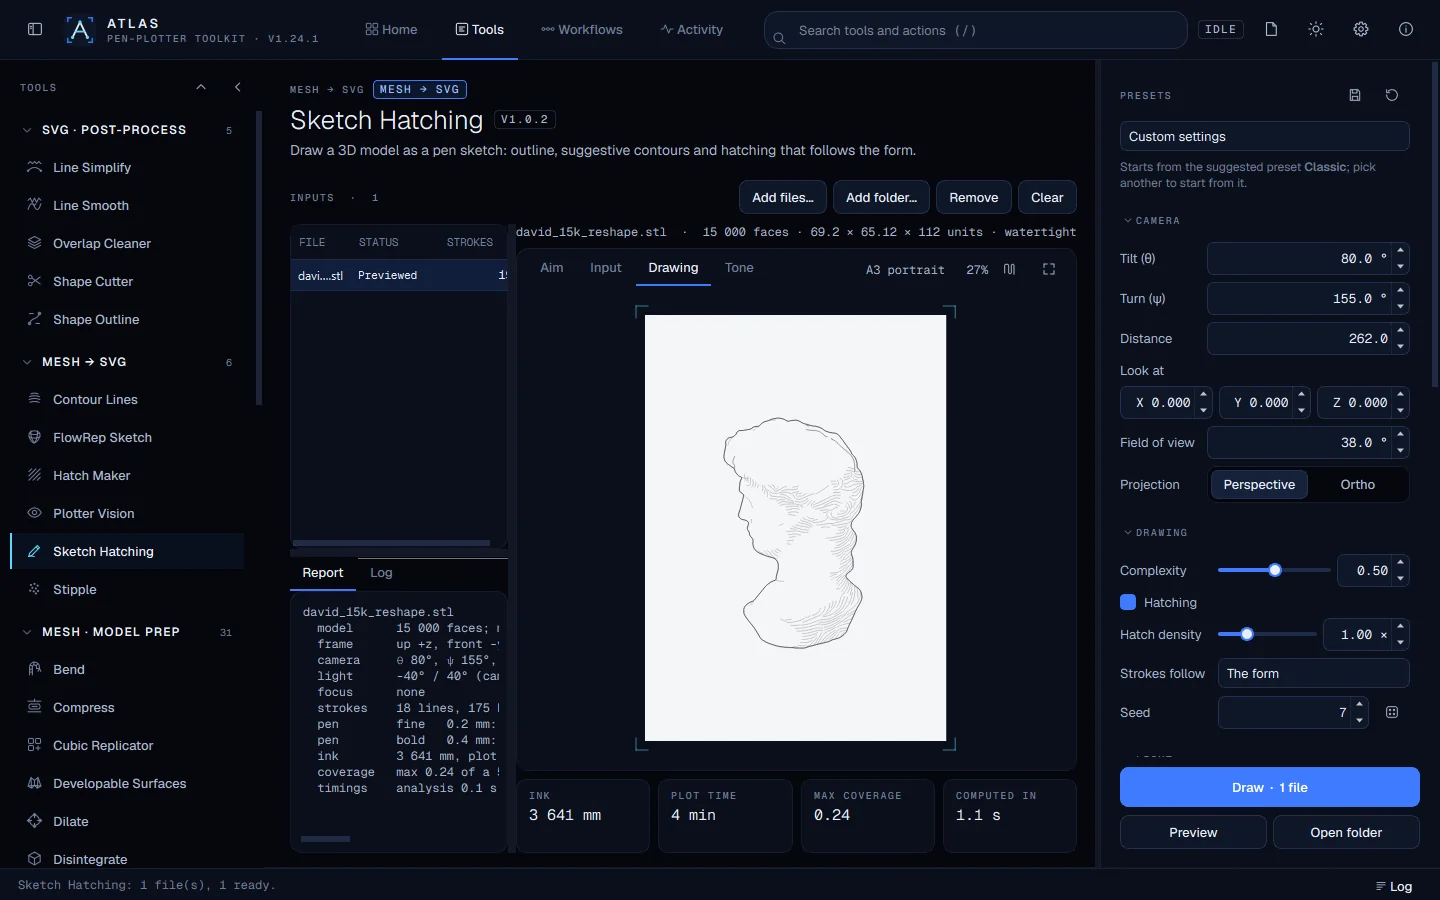
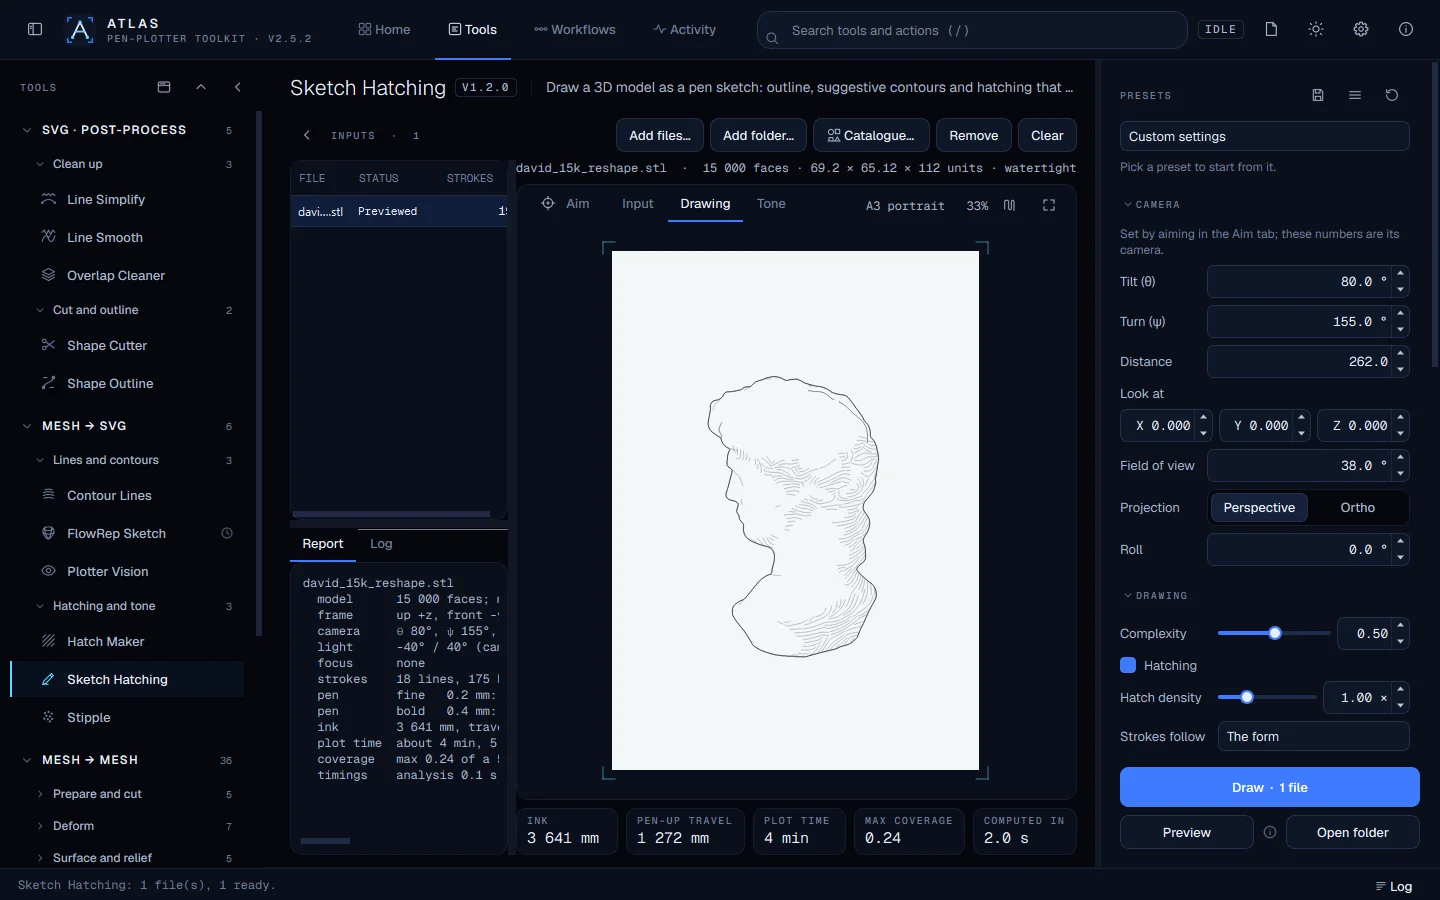
Docs: the guides and the app picture at 2.5.2 (#23)
The guides name the current tool versions and where each tool is in the grouped list, Plane Cut's says how a
cut stays closed, and the README shows the 2.5.2 window (it was 1.24.1).

diff --git a/scripts/dev/readme_gallery.py b/scripts/dev/readme_gallery.py
@@ -169,7 +169,7 @@ RECIPES = [
 ]
 
 SVG_TOOLS = ("svg-overlap-cleaner", "svg-smooth", "svg-simplify", "svg-shape-cutter", "svg-shape-outline")
-SHOT_PATH_ROW = (300, 811, 500, 829)    # the 1440 x 900 --snapshot of Sketch Hatching: its report's output row
+SHOT_PATH_ROW = (300, 797, 506, 817)    # the 1440 x 900 --snapshot of Sketch Hatching: its report's output row
 HERO = ("sketch-hatching", "mesh-twist", "mesh-peel", "dpt-hatching")
 
 

diff --git a/docs/PLANE_CUT.md b/docs/PLANE_CUT.md
@@ -54,7 +54,8 @@ surface away from the cut. Boundary edges can exceed the target size. A 200,000-
 limit very fine refinement; the report explains when a limit is reached. These are Atlas's fill policies, not
 claims of identical triangulation to Meshmixer.
 
-Closed input models must yield closed pieces when fill is enabled, or the run fails with a useful message.
+Closed input models must yield closed pieces when fill is enabled, or the run fails with a useful message. A cap that
+its triangulation leaves with a gap is made again by manifold3d, which keeps the solid closed (0.1.2).
 Open input models can be cut; only closed section contours can be capped, and existing holes remain open.
 This tool does not repair defective meshes. Move the plane slightly if a degenerate intersection cannot be capped.
 

diff --git a/docs/DEVELOPABLE_SURFACES.md b/docs/DEVELOPABLE_SURFACES.md
@@ -8,7 +8,7 @@ Preprocessing: https://odedstein.com/projects/developability/preprocessing.html 
 
 ## Use
 
-Choose **Developable Surfaces** under Mesh, load a model, select **Balanced**, and Preview or Develop.
+Choose **Developable Surfaces** (Mesh → Mesh › *Surface and relief*), load a model, select **Balanced**, and Preview or Develop.
 Use **Sculpture** for more identity, **Broad folds** for larger regions, **Clean rulings** to discourage
 branching, or **Abstract form** for a strongly transformed cage. Draft previews use at most 500 initial
 triangles, one subdivision and 100 iterations per level. Keep-input preparation retains its original face

diff --git a/docs/SURFACE_STRIPES.md b/docs/SURFACE_STRIPES.md
@@ -1,6 +1,6 @@
 # Surface Stripes
 
-Surface Stripes (`mesh-stripes`, 0.2.0) adds physical, flat-topped bands to a model or exports closed ribbons on their
+Surface Stripes (`mesh-stripes`, 0.3.0) adds physical, flat-topped bands to a model or exports closed ribbons on their
 own. It computes a camera-independent
 stripe pattern using Geometry Central's implementation of Knöppel et al. (2015), then fuses bands and body into
 a closed solid. Texture coordinates alone are insufficient for the existing Atlas SVG renderers, which draw

diff --git a/docs/PIPE_FILL.md b/docs/PIPE_FILL.md
@@ -6,7 +6,7 @@ the tool fills the volume with paths, not with a continuous solid.
 
 ## Start
 
-Choose **Pipe Fill** under Mesh, add a model, select **Plotter organic** and Preview.
+Choose **Pipe Fill** (Mesh → Mesh › *Carve and fill*), add a model, select **Plotter organic** and Preview.
 Choose **Architectural pipes** for the second reference's straight-run pipe maze.
 Preview computes the same paths and geometry as Run. Large results use a display
 proxy; that proxy does not replace the exported geometry.

diff --git a/docs/VOXELIZE_FILL.md b/docs/VOXELIZE_FILL.md
@@ -1,7 +1,7 @@
 # Voxelize Fill 0.1.0
 
 Voxelize Fill converts a mesh into a **filled volume of cells**, then builds a
-block sculpture from those cells. Find it under Mesh tools. It is independent of
+block sculpture from those cells. Find it under Mesh → Mesh › *Carve and fill*. It is independent of
 Voxelizer and has its own presets and saved settings. No Blender is required.
 
 The default is a full volume of touching, separate cubes. OBJ is the default

diff --git a/docs/SURFACE_EJECT.md b/docs/SURFACE_EJECT.md
@@ -1,4 +1,4 @@
-# Surface Eject 0.3.3
+# Surface Eject 0.5.0
 
 Surface Eject lifts actual pieces of a model out of matching cavities. It keeps a recognizable body between
 the cuts and preserves the orientation and sculpted skin of every fragment. Mesh Shatter partitions the

diff --git a/docs/MOTION_SCULPTURE.md b/docs/MOTION_SCULPTURE.md
@@ -1,4 +1,4 @@
-# Motion Sculpture 0.5.0
+# Motion Sculpture 0.6.2
 
 Make a still mesh express motion through layered silhouettes, trailing fins and splintered bars.
 The visual references are stacks of glass rods and elongated bronze or glass laminae. This is a procedural

diff --git a/docs/STRATA_SCULPT.md b/docs/STRATA_SCULPT.md
@@ -1,4 +1,4 @@
-# Strata Sculpt 1.1.1
+# Strata Sculpt 1.2.1
 
 Strata Sculpt cuts a mesh into capped slabs, then thins, separates, turns, waves and dislocates them.
 Optional **Connect neighbouring strata** adds real fused supports between facing cut surfaces.
